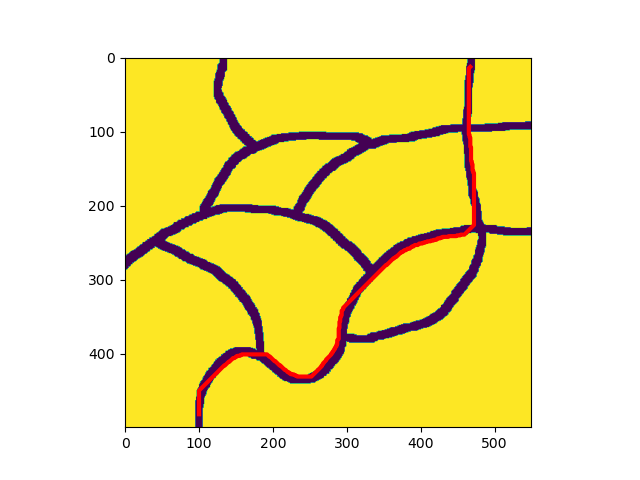
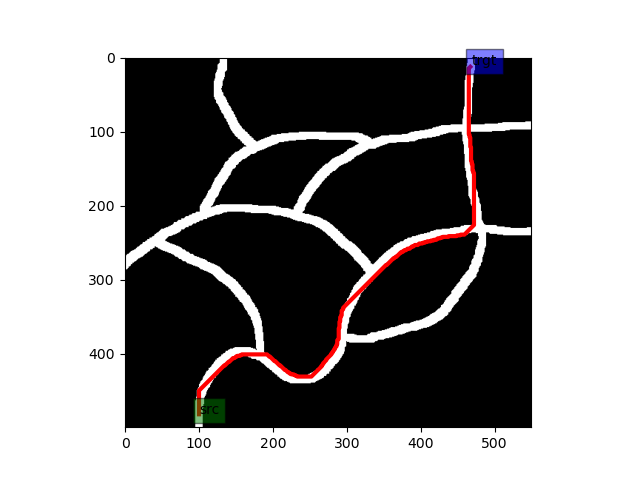
Separate the demo files, improve the plots.

diff --git a/demo1.py b/demo1.py
@@ -1,0 +1,55 @@
+import matplotlib.pyplot as plt
+import numpy as np
+from PIL import Image
+
+import time
+
+import path_planner
+
+# -----------------------------------------------------------------------------
+
+MAP_FILE = "./map1.jpg"
+
+# -----------------------------------------------------------------------------
+def get_obstacle_map(fn):
+    '''
+    Create a binary occupancy map by thresholding the colors.
+    Apply zero cost for a no-obstacle grid and 1000 for an obstacle grid.
+    '''
+
+    THRESHOLD = 127
+
+    img = np.asarray(Image.open(fn).convert('L'))
+    height, width = img.shape
+
+    obstacle_map = np.ones((width, height), dtype=np.int32)
+
+    for i in range(0, width):
+        for j in range(0, (height)):
+            if img[j,i] < THRESHOLD:
+                obstacle_map[i][j] = 1000 
+
+    return obstacle_map
+
+# -----------------------------------------------------------------------------
+
+cost_mat = get_obstacle_map(MAP_FILE)
+
+src = np.array([100, 482])
+trgt = np.array([469, 10])
+
+start = time.time()
+
+trajs = path_planner.terrain_value_iteration(cost_mat, src, trgt, np.array([1, 1]), 2000, 0)
+
+end = time.time()
+print("Completion time: ", end - start, " second(s)")
+
+fig, ax = plt.subplots()
+ax.imshow(np.transpose(cost_mat), cmap="gray_r")
+trajs = np.array(trajs)
+ax.plot(trajs[:,0], trajs[:,1], color='red', linewidth=3)
+ax.text(src[0], src[1], 'src', bbox=dict(facecolor='green', alpha=0.5))
+ax.text(trgt[0], trgt[1], 'trgt', bbox=dict(facecolor='blue', alpha=0.5))
+
+plt.show()

diff --git a/demo2.py b/demo2.py
@@ -1,0 +1,54 @@
+import matplotlib.pyplot as plt
+import numpy as np
+from PIL import Image
+
+import time
+
+import path_planner
+
+# -----------------------------------------------------------------------------
+
+MAP_FILE = "./map2.jpg"
+
+# -----------------------------------------------------------------------------
+def get_obstacle_map(fn):
+    '''
+    Create a binary occupancy map by thresholding the colors.
+    Apply zero cost for a no-obstacle grid and 1000 for an obstacle grid.
+    '''
+
+    THRESHOLD = 127
+
+    img = np.asarray(Image.open(fn).convert('L'))
+    height, width = img.shape
+
+    obstacle_map = np.ones((width, height), dtype=np.int32)
+
+    for i in range(0, width):
+        for j in range(0, (height)):
+            if img[j,i] < THRESHOLD:
+                obstacle_map[i][j] = 1000 
+
+    return obstacle_map
+
+# -----------------------------------------------------------------------------
+
+cost_mat = get_obstacle_map(MAP_FILE)
+
+src = np.array([44, 32])
+trgt = np.array([398, 317])
+
+start = time.time()
+
+trajs = path_planner.terrain_value_iteration(cost_mat, src, trgt, np.array([1, 1]), 2000, 0)
+
+end = time.time()
+print("Completion time: ", end - start, " second(s)")
+
+fig, ax = plt.subplots()
+ax.imshow(np.transpose(cost_mat), cmap="gray_r")
+ax.plot(trajs[:,0], trajs[:,1], color='red', linewidth=3)
+ax.text(src[0], src[1], 'src', bbox=dict(facecolor='green', alpha=0.5))
+ax.text(trgt[0], trgt[1], 'trgt', bbox=dict(facecolor='blue', alpha=0.5))
+
+plt.show()
